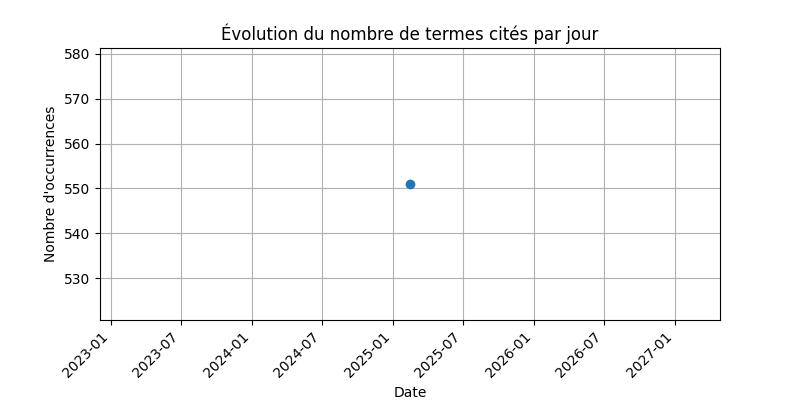
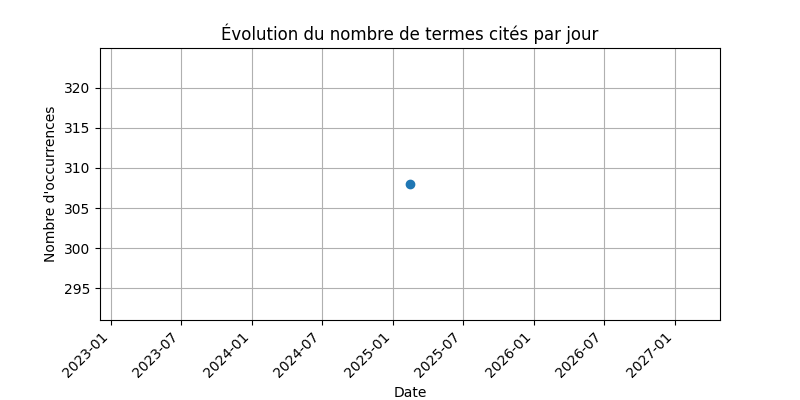
màj

diff --git a/MoniteurBelgeScrapper.py b/MoniteurBelgeScrapper.py
@@ -31,28 +31,27 @@ def download_pdf(url, save_dir="downloads"):
 def extract_terms_from_pdf(pdf_path, terms, date, output_csv):
     reader = PdfReader(pdf_path)
     results = []
+    NewsFlag = True
     term_regex = re.compile(r"(?:\\b|\\s|,|\\.|:|;|/|!|\\?)({})(?:\\b|\\s|,|\\.|:|;|/|!|\\?)".format("|".join(map(re.escape, terms))), re.IGNORECASE)
     for page_num, page in enumerate(reader.pages, start=1):
         text = page.extract_text()
         if not text:
             continue
         matches = term_regex.findall(text)
-        for match in matches:
-            results.append([date, match.lower().replace("\n", ""), page_num])
+        if len(matches)==0:
+             NewsFlag = False
+             results.append([date, "Rien ne nous concerne aujourd'hui !", "NA"])
+        else:
+            for match in matches:
+                results.append([date, match.lower().replace("\n", ""), page_num])
     df = pd.DataFrame(results, columns=["Date", "Terme", "Numéro de page"])
     df["Occurences"] = df.groupby(["Terme", "Numéro de page"])['Terme'].transform('count')
     df.drop_duplicates(inplace=True)
     os.makedirs(os.path.dirname(output_csv), exist_ok=True)
     df.to_csv(output_csv, sep=";", index=False)
-    print(f"Extraction terminée. Résultats enregistrés dans {output_csv}")
+    return NewsFlag
 
-def fig_to_base64(fig):
-    buf = BytesIO()
-    fig.savefig(buf, format="png")
-    buf.seek(0)
-    return base64.b64encode(buf.read()).decode('utf-8')
-
-def generate_markdown_report(csv_file, output_file="report.md"):
+def generate_markdown_report(csv_file="result\\Data.csv",output_file="README.md"):
     # Charger les données
     df = pd.read_csv(csv_file, delimiter=';')
     df["Date"] = pd.to_datetime(df["Date"])  # Convertir en datetime
@@ -120,7 +119,52 @@ def generate_markdown_report(csv_file, output_file="report.md"):
     
     print(f"Rapport généré : {output_file}")
 
-
+def generate_markdown_empty_report(csv_file="result\\Data.csv",output_file="README.md"):
+    # Charger les données
+    df = pd.read_csv(csv_file, delimiter=';')
+    df["Date"] = pd.to_datetime(df["Date"])  # Convertir en datetime
+    
+    # Dernière date mentionnée
+    last_date = df["Date"].max().strftime("%Y-%m-%d")
+    
+    # Agréger les occurrences par terme (toutes dates confondues)
+    total_terms = df.groupby("Terme")["Occurences"].sum()
+    
+    # Graphique des termes les plus cités (toutes dates confondues)
+    plt.figure(figsize=(6, 6))
+    total_terms.plot(kind="pie", autopct='%1.1f%%')
+    plt.title("Termes les plus cités - Global")
+    plt.ylabel("")
+    plt.savefig("img\\global_pie.png")
+    plt.close()
+    
+    # Nombre de termes cités par jour
+    daily_counts = df.groupby("Date")["Occurences"].sum()
+    
+    # Graphique de l'évolution des termes cités
+    plt.figure(figsize=(8, 4))
+    daily_counts.plot(kind="line", marker="o")
+    plt.title("Évolution du nombre de termes cités par jour")
+    plt.xlabel("Date")
+    plt.ylabel("Nombre d'occurrences")
+    plt.xticks(rotation=45)
+    plt.grid()
+    plt.savefig("img\\evolution_line.png")
+    plt.close()
+    
+    # Génération du Markdown
+    with open(output_file, "w", encoding="utf-8") as f:
+        f.write(f"# Rapport quotidien\n\n")
+        f.write(f"**Dernière mise à jour : {last_date}**\n\n")
+        
+        f.write("## Pas d'actualités aujourd'hui 🥱\n\n")
+        f.write("\n\n")
+        
+        f.write("## Évolution globale 🚀\n\n")
+        f.write("![Graphique](img/global_pie.png)\n\n")
+        f.write("![Graphique](img/evolution_line.png)\n\n")
+    
+    print(f"Rapport généré : {output_file}")
 
     
 dailyIDPath = generate_date("path")
@@ -129,7 +173,9 @@ date = generate_date()
 PDFPath = download_pdf(url)
 
 
-SearchTermList = ["pesticide", "autorisation", "travail", "produit phytosanitaire", "zone tampon", "produits phytopharmaceutiques", "herbicide", "local phyto", "plantes exotiques envahissante", "herbicides"]
-extract_terms_from_pdf(PDFPath, SearchTermList, date, "result/Data.csv")
-generate_markdown_report("result\\Data.csv", output_file="README.md")
-
+SearchTermList = ["pesticide", "produit phytosanitaire", "zone tampon", "produits phytopharmaceutiques", "herbicide", "local phyto", "plantes exotiques envahissante", "herbicides"]
+ModificationRate = extract_terms_from_pdf(PDFPath, SearchTermList, date, "result/Data.csv")
+if ModificationRate :
+    generate_markdown_report()
+else :
+    generate_markdown_empty_report()

diff --git a/README.md b/README.md
@@ -2,112 +2,11 @@
 
 **Dernière mise à jour : 2025-02-14**
 
-## Termes les plus cités (dernière journée)
+## Pas d'actualités aujourd'hui 🥱
 
-![Graphique](img/last_day_pie.png)
 
-### Données de la dernière journée
 
-| Terme        |   Numéro de page |   Occurences |
-|:-------------|-----------------:|-------------:|
-| travail      |                1 |            8 |
-| travail      |                2 |           13 |
-| travail      |                3 |            1 |
-| travail      |                4 |            4 |
-| travail      |               17 |           15 |
-| travail      |               18 |            7 |
-| travail      |               19 |           16 |
-| travail      |               20 |           17 |
-| travail      |               21 |           16 |
-| travail      |               22 |           30 |
-| travail      |               23 |           17 |
-| travail      |               24 |           31 |
-| travail      |               25 |           16 |
-| travail      |               26 |           10 |
-| travail      |               27 |           14 |
-| travail      |               28 |            5 |
-| travail      |               29 |           16 |
-| travail      |               30 |           18 |
-| travail      |               31 |           29 |
-| travail      |               32 |            7 |
-| travail      |               33 |            8 |
-| travail      |               34 |           17 |
-| travail      |               35 |            4 |
-| travail      |               36 |           11 |
-| travail      |               37 |           11 |
-| travail      |               38 |            7 |
-| travail      |               39 |            9 |
-| travail      |               40 |            7 |
-| travail      |               41 |            1 |
-| autorisation |               41 |           11 |
-| autorisation |               42 |            6 |
-| autorisation |               43 |            6 |
-| travail      |               43 |            7 |
-| travail      |               44 |            3 |
-| travail      |               45 |            6 |
-| travail      |               46 |            6 |
-| autorisation |               46 |            1 |
-| travail      |               47 |            2 |
-| travail      |               48 |            5 |
-| travail      |               49 |            2 |
-| autorisation |               49 |            5 |
-| travail      |               50 |            6 |
-| autorisation |               50 |            1 |
-| autorisation |               51 |            4 |
-| travail      |               52 |            1 |
-| travail      |               54 |            2 |
-| travail      |               55 |            1 |
-| travail      |               56 |            5 |
-| autorisation |               57 |            6 |
-| travail      |               57 |            1 |
-| travail      |               58 |            3 |
-| travail      |               59 |            1 |
-| autorisation |               59 |            5 |
-| autorisation |               60 |            2 |
-| travail      |               61 |            3 |
-| autorisation |               63 |            1 |
-| autorisation |               65 |            1 |
-| travail      |              115 |            4 |
-| travail      |              119 |            2 |
-| travail      |              122 |            3 |
-| travail      |              124 |            2 |
-| travail      |              127 |            6 |
-| travail      |              128 |            3 |
-| travail      |              190 |            2 |
-| travail      |              191 |            2 |
-| autorisation |              193 |            1 |
-| autorisation |              194 |            1 |
-| travail      |              195 |            1 |
-| autorisation |              197 |            2 |
-| autorisation |              199 |            3 |
-| autorisation |              200 |            2 |
-| travail      |              200 |            1 |
-| travail      |              203 |            1 |
-| autorisation |              203 |            2 |
-| autorisation |              204 |            4 |
-| travail      |              204 |            1 |
-| autorisation |              206 |            1 |
-| travail      |              210 |            3 |
-| autorisation |              211 |            1 |
-| travail      |              211 |            1 |
-| travail      |              212 |            3 |
-| travail      |              214 |            8 |
-| travail      |              215 |            3 |
-| travail      |              216 |            1 |
-| travail      |              218 |            1 |
-| travail      |              219 |            1 |
-| autorisation |              220 |            1 |
-| travail      |              226 |            2 |
-| autorisation |              226 |            1 |
-| autorisation |              227 |            1 |
-| travail      |              229 |            3 |
-| travail      |              230 |            2 |
-| travail      |              232 |            1 |
-| travail      |              236 |            3 |
-| travail      |              237 |            2 |
-| travail      |              242 |            1 |
-
-## Évolution globale
+## Évolution globale 🚀
 
 ![Graphique](img/global_pie.png)
 
